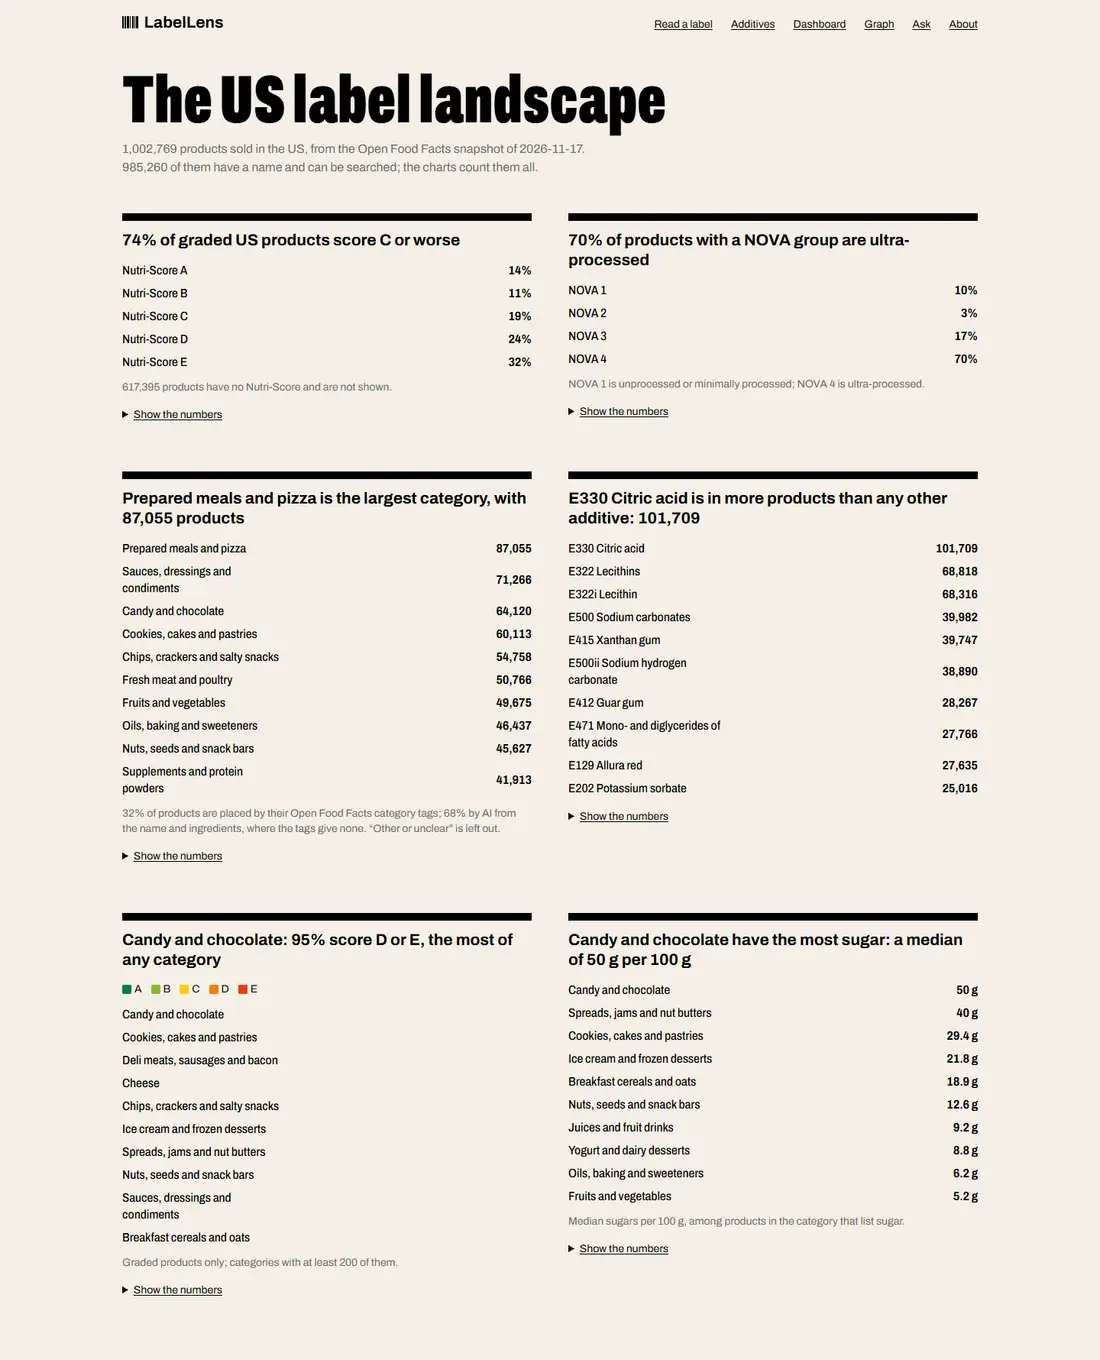
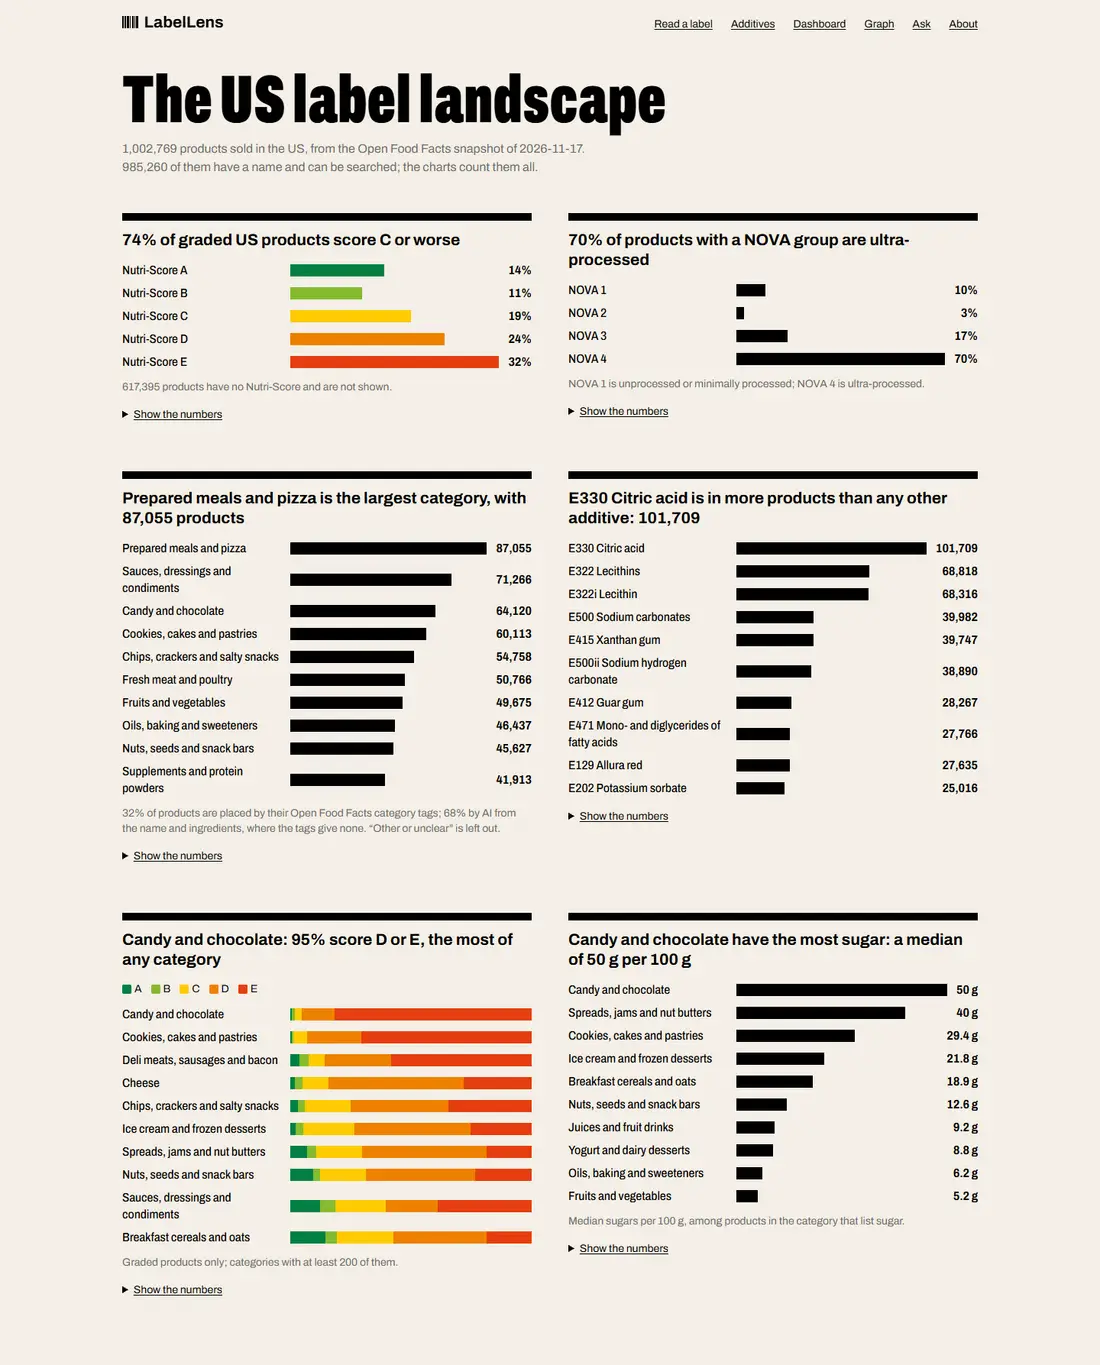
Add TeleCompass to the ring, speed it up and fix two captures
- TeleCompass's visit check joins the ring in second place; the ring now
  shows one screen from each of seven projects first, then more pages.
- The ring moves every 2 s, so all projects show in about 14 s and all
  14 screens in about 28 s; each front screen scrolls its page quickly.
  It stops only while the pointer moves over it, not when it rests there.
- Re-captured the LabelLens dashboard with its bar charts drawn.
- New Evidentia search-evals screen (which search works, questions the
  pages cannot answer, recall at k), ending on the recall graph.

diff --git a/client/src/components/hero/HeroRing.tsx b/client/src/components/hero/HeroRing.tsx
@@ -25,6 +25,8 @@ import ogTrace from "@assets/ring/orbitglass-trace.webp";
 import lumina from "@assets/ring/lumina.webp";
 import riskmetric from "@assets/ring/riskmetric.webp";
 import nutrimap from "@assets/ring/nutrimap.webp";
+import tcCheck from "@assets/ring/telecompass-check.webp";
+import evSearch from "@assets/ring/evidentia-search-evals.webp";
 import { featured } from "@/content/featured";
 import { Cite } from "../cite/Cite";
 import { scrollToId, useFinePointer } from "@/lib/motion";
@@ -38,6 +40,7 @@ const PROJECTS = {
   lumina: { anchor: "index", name: "Lumina", line: "US grid demand and what renewables cost", glow: "190 72% 24%" },
   riskmetric: { anchor: "index", name: "RiskMetric", line: "Fraud detection with spatial and temporal risk", glow: "352 62% 28%" },
   nutrimap: { anchor: "index", name: "NutriMap", line: "Food deserts and grocery inflation", glow: "30 82% 27%" },
+  telecompass: { anchor: "index", name: "TeleCompass", line: "Is this telehealth visit allowed, and will it be paid?", glow: "174 52% 20%" },
 } as const;
 
 interface Screen {
@@ -57,21 +60,25 @@ interface Screen {
 const LL = "labellens-beige.vercel.app";
 const EV = "evidentia-green.vercel.app";
 const OG = "adikan2k.github.io/orbitglass";
+const TC = "telecompass.vercel.app";
 
-// Twelve screens, one per place on the ring. Neighbours are always different projects.
+// Fourteen screens, one per place on the ring: one from each of the seven projects first,
+// then more pages from the main ones. Neighbours are always different projects.
 const SCREENS: Screen[] = [
   { project: "labellens", view: "Home and search", bar: LL, site: true, src: llHome, alt: "LabelLens home page with product search", tall: 1.5455 },
+  { project: "telecompass", view: "Visit check", bar: TC, site: true, src: tcCheck, alt: "TeleCompass checking whether a telehealth visit is allowed and paid, with the law behind each answer", tall: 1.7364 },
   { project: "evidentia", view: "Auditing an answer", bar: EV, site: true, src: evAudit, alt: "Evidentia auditing an AI answer sentence by sentence", tall: 1.7364 },
   { project: "orbitglass", view: "The lab", bar: OG, site: true, src: ogLab, alt: "OrbitGlass lab home", tall: 1.1055 },
   { project: "lumina", view: "Looker Studio dashboards", bar: "Lumina · Looker Studio", site: false, src: lumina, alt: "Lumina dashboards of US grid demand and renewable prices", tall: 1.6964 },
+  { project: "riskmetric", view: "Streamlit app", bar: "RiskMetric · Streamlit", site: false, src: riskmetric, alt: "RiskMetric fraud detection app with a triage queue", tall: 1.4818 },
+  { project: "nutrimap", view: "Power BI report", bar: "NutriMap · Power BI", site: false, src: nutrimap, alt: "NutriMap report on food deserts and grocery prices", tall: 1.6882 },
   { project: "labellens", view: "Ask agent", bar: `${LL}/ask`, site: true, src: llAsk, alt: "LabelLens ask agent answering a question step by step", tall: 1.15 },
   { project: "evidentia", view: "Research agent", bar: `${EV}/research`, site: true, src: evResearch, alt: "Evidentia research run with a quote for every claim", tall: 1.7364 },
-  { project: "riskmetric", view: "Streamlit app", bar: "RiskMetric · Streamlit", site: false, src: riskmetric, alt: "RiskMetric fraud detection app with a triage queue", tall: 1.4818 },
-  { project: "labellens", view: "Dashboard", bar: `${LL}/dashboard`, site: true, src: llDashboard, alt: "LabelLens dashboard of the US label landscape", tall: 1.2364 },
+  { project: "labellens", view: "Dashboard", bar: `${LL}/dashboard`, site: true, src: llDashboard, alt: "LabelLens dashboard of the US label landscape", tall: 1.2409 },
+  { project: "evidentia", view: "Search evals", bar: `${EV}/evals`, site: true, src: evSearch, alt: "Evidentia search evals: which search works, questions the pages cannot answer, and the recall at k chart", tall: 1.5273 },
   { project: "orbitglass", view: "Experiments", bar: `${OG}/#lab`, site: true, src: ogTrace, alt: "OrbitGlass experiments: repetition atlas, logistic map and toy transformer", tall: 1.5973 },
-  { project: "evidentia", view: "Evals", bar: `${EV}/evals`, site: true, src: evEvals, alt: "Evidentia evaluation results", tall: 1.7364 },
   { project: "labellens", view: "A product page", bar: `${LL}/product`, site: true, src: llProduct, alt: "LabelLens product page for a breakfast cereal", tall: 1.4082 },
-  { project: "nutrimap", view: "Power BI report", bar: "NutriMap · Power BI", site: false, src: nutrimap, alt: "NutriMap report on food deserts and grocery prices", tall: 1.6882 },
+  { project: "evidentia", view: "Evals", bar: `${EV}/evals`, site: true, src: evEvals, alt: "Evidentia evaluation results", tall: 1.7364 },
 ];
 const CARDS = SCREENS;
 const COUNT = CARDS.length;
@@ -80,6 +87,11 @@ const BAR = 30;
 /** Height over width of a screen on the ring. */
 const ASPECT = 0.56;
 const EASE_OUT = [0.16, 1, 0.3, 1] as const;
+/** The ring moves on every STEP_MS: all seven projects in about 14 s, all 14 screens in about 28 s. */
+const STEP_MS = 2000;
+const TURN_S = 0.65;
+/** After someone drags or clicks, the ring waits this long before moving on by itself. */
+const RESUME_MS = 4000;
 
 /** Smallest signed angle, in degrees, between a card and the front of the ring. */
 function fromFront(index: number, rot: number) {
@@ -88,7 +100,7 @@ function fromFront(index: number, rot: number) {
 }
 
 /**
- * The first screen is the work: twelve real screens from six projects on a ring that
+ * The first screen is the work: fourteen real screens from seven projects on a ring that
  * turns when dragged. The screen in front scrolls through its own page, and clicking
  * it goes to the project.
  */
@@ -102,6 +114,9 @@ export default function HeroRing() {
   const [taught, setTaught] = useState(false);
   const [hovering, setHovering] = useState(false);
   const [dragging, setDragging] = useState(false);
+  // Someone is moving the pointer over the ring: it stops until the pointer rests for 2 s.
+  const [inspecting, setInspecting] = useState(false);
+  const inspectTimer = useRef<number>();
 
   const rot = useMotionValue(reduced ? 0 : 64);
   const intro = useMotionValue(reduced ? 1 : 0);
@@ -122,7 +137,8 @@ export default function HeroRing() {
   const stageOpacity = useTransform(intro, [0, 0.5], [0, 1]);
 
   const drag = useRef({ active: false, moved: false, startX: 0, startRot: 0, lastX: 0, lastT: 0, velocity: 0 });
-  const lastTouch = useRef(0);
+  const lastTouch = useRef(-1e9);
+  const lastStep = useRef(0);
   const stop = useRef<{ stop: () => void } | null>(null);
 
   // Card size follows the room there is; the ring's radius follows the card.
@@ -151,7 +167,7 @@ export default function HeroRing() {
     stop.current = animate(
       rot,
       Math.round(target / STEP) * STEP,
-      slow ? { duration: 1.5, ease: [0.65, 0, 0.35, 1] } : { type: "spring", stiffness: 70, damping: 18, mass: 1 },
+      slow ? { duration: TURN_S, ease: [0.65, 0, 0.35, 1] } : { type: "spring", stiffness: 90, damping: 18, mass: 1 },
     );
   };
   const step = (dir: 1 | -1) => {
@@ -166,9 +182,10 @@ export default function HeroRing() {
   // On open the ring swings round into place.
   useEffect(() => {
     if (reduced) return;
-    lastTouch.current = performance.now();
-    const a = animate(intro, 1, { duration: 1.5, ease: EASE_OUT });
-    const b = animate(rot, 0, { duration: 1.9, ease: EASE_OUT });
+    // The first screen holds a little longer while the ring swings in.
+    lastStep.current = performance.now() + 900;
+    const a = animate(intro, 1, { duration: 1.2, ease: EASE_OUT });
+    const b = animate(rot, 0, { duration: 1.4, ease: EASE_OUT });
     stop.current = b;
     return () => {
       a.stop();
@@ -182,12 +199,13 @@ export default function HeroRing() {
     setFront((prev) => (prev === i ? prev : i));
   });
 
-  // Left alone, the ring moves on to the next screen every few seconds.
+  // Left alone, the ring moves on briskly. It stops while someone moves the pointer over
+  // it, and waits a few seconds after a drag or a click.
   useAnimationFrame(() => {
-    if (reduced || drag.current.active || hovering) return;
+    if (reduced || drag.current.active || inspecting) return;
     const now = performance.now();
-    if (now - lastTouch.current < 8000) return;
-    lastTouch.current = now;
+    if (now - lastTouch.current < RESUME_MS || now - lastStep.current < STEP_MS) return;
+    lastStep.current = now;
     settle(Math.round(rot.get() / STEP) * STEP - STEP, true);
   });
 
@@ -232,6 +250,9 @@ export default function HeroRing() {
   const onPointerMove = (e: React.PointerEvent) => {
     const el = stage.current;
     if (!el || !fine) return;
+    setInspecting(true);
+    window.clearTimeout(inspectTimer.current);
+    inspectTimer.current = window.setTimeout(() => setInspecting(false), 2000);
     const box = el.getBoundingClientRect();
     const x = e.clientX - box.left;
     const y = e.clientY - box.top;
@@ -268,6 +289,8 @@ export default function HeroRing() {
         onPointerEnter={() => setHovering(true)}
         onPointerLeave={() => {
           setHovering(false);
+          setInspecting(false);
+          window.clearTimeout(inspectTimer.current);
           tiltX.set(0);
           tiltY.set(0);
         }}
@@ -283,6 +306,7 @@ export default function HeroRing() {
                 screen={c}
                 isFront={i === front}
                 live={i === front && !dragging && !reduced}
+                paused={inspecting}
                 glare={i === front && hovering && fine}
                 eager={i < 2 || i === COUNT - 1}
                 onPick={() => {
@@ -374,6 +398,8 @@ interface RingCardProps {
   isFront: boolean;
   /** In front and at rest: the page inside scrolls. */
   live: boolean;
+  /** Someone is pointing at the ring: scroll slowly so the page can be read. */
+  paused: boolean;
   glare: boolean;
   eager: boolean;
   onPick: () => void;
@@ -383,7 +409,7 @@ interface RingCardProps {
  * One screen on the ring, in a browser frame, with its reflection on the floor. It
  * dims as it turns away and disappears round the back.
  */
-function RingCard({ index, rot, size, screen, isFront, live, glare, eager, onPick }: RingCardProps) {
+function RingCard({ index, rot, size, screen, isFront, live, paused, glare, eager, onPick }: RingCardProps) {
   const { w, h, r } = size;
   const shade = useTransform(rot, (v) => Math.min(0.8, (Math.abs(fromFront(index, v)) / 70) * 0.66));
   const visibility = useTransform(rot, (v) => (Math.abs(fromFront(index, v)) > 95 ? "hidden" : "visible"));
@@ -423,8 +449,14 @@ function RingCard({ index, rot, size, screen, isFront, live, glare, eager, onPic
             draggable={false}
             loading={eager ? "eager" : "lazy"}
             decoding="async"
-            className={`block w-full ${live && travel > 0 ? "ring-pan" : ""}`}
-            style={{ ["--pan" as string]: `${-travel}px`, ["--pan-time" as string]: `${Math.max(5, travel / 62)}s` }}
+            className={`block w-full ${live && paused && travel > 0 ? "ring-pan-back" : ""}`}
+            style={{
+              ["--pan" as string]: `${-travel}px`,
+              ["--pan-time" as string]: `${Math.max(5, travel / 62)}s`,
+              // In front: a quick flick down the page while it holds. Elsewhere: back to the top.
+              transform: live && travel > 0 ? `translateY(${-travel}px)` : "translateY(0)",
+              transition: live ? "transform 1.5s cubic-bezier(0.45, 0, 0.25, 1) 0.25s" : "transform 0.5s cubic-bezier(0.45, 0, 0.55, 1)",
+            }}
           />
         </div>
         {glare && (

diff --git a/client/src/content/featured.tsx b/client/src/content/featured.tsx
@@ -81,7 +81,7 @@ export const featured: Featured[] = [
     screens: [
       { label: "Home", src: llHome, alt: "LabelLens home page with product search", bar: "labellens-beige.vercel.app", href: LABELLENS, tall: 1.5455 },
       { label: "Ask agent", src: llAsk, alt: "LabelLens ask agent answering a question step by step", bar: "labellens-beige.vercel.app/ask", href: `${LABELLENS}/ask`, tall: 1.15 },
-      { label: "Dashboard", src: llDashboard, alt: "LabelLens dashboard of the US label landscape", bar: "labellens-beige.vercel.app/dashboard", href: `${LABELLENS}/dashboard`, tall: 1.2364 },
+      { label: "Dashboard", src: llDashboard, alt: "LabelLens dashboard of the US label landscape", bar: "labellens-beige.vercel.app/dashboard", href: `${LABELLENS}/dashboard`, tall: 1.2409 },
       { label: "Product", src: llProduct, alt: "LabelLens product page with additives and better swaps", bar: "labellens-beige.vercel.app/product", href: `${LABELLENS}/product/0016000169685`, tall: 1.4082 },
     ],
     results: [

diff --git a/client/src/index.css b/client/src/index.css
@@ -184,8 +184,14 @@ html.lenis body {
     animation: ring-pan var(--pan-time, 12s) cubic-bezier(0.45, 0, 0.55, 1) 0.9s infinite alternate;
   }
 
+  /* Paused on hover: from the bottom, where the quick flick left it, slowly up and down. */
+  .ring-pan-back {
+    animation: ring-pan-back var(--pan-time, 12s) cubic-bezier(0.45, 0, 0.55, 1) infinite alternate;
+  }
+
   @media (prefers-reduced-motion: reduce) {
-    .ring-pan {
+    .ring-pan,
+    .ring-pan-back {
       animation: none;
     }
   }
@@ -522,6 +528,15 @@ html.lenis body {
   }
   to {
     opacity: 1;
+    transform: translateY(0);
+  }
+}
+
+@keyframes ring-pan-back {
+  from {
+    transform: translateY(var(--pan, 0px));
+  }
+  to {
     transform: translateY(0);
   }
 }
